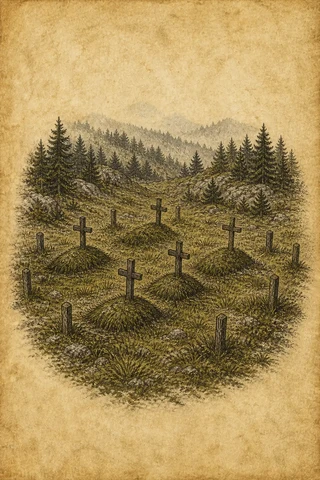
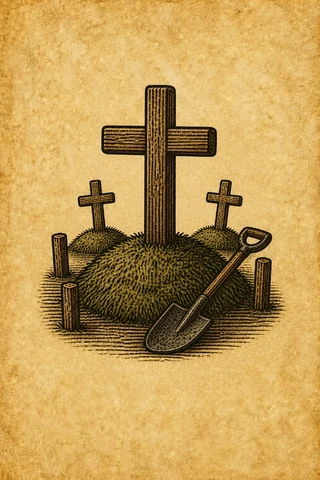
Update settlement HUD and firewood provisioning tests

diff --git a/src/ui/SettlementHud.ts b/src/ui/SettlementHud.ts
@@ -108,7 +108,7 @@ const SETTLEMENT_HUD_HTML = `
               <strong data-stockpile-transit="gold"></strong>
             </div>
             <p class="settlement-hud__resource-detail" data-resource-card-detail="gold">${HUD_RESOURCE_CARD_PRESENTATION.gold.surplusDetail}</p>
-            <p class="settlement-hud__resource-context" data-resource-card-context="gold">Spendable gold across every community lockbox and Town Hall treasury.</p>
+            <p class="settlement-hud__resource-context" data-resource-card-context="gold" hidden></p>
             <p class="settlement-hud__resource-note">Activate to locate physical holdings in the world.</p>
           </section>
         </div>
@@ -1590,9 +1590,11 @@ export class SettlementHud {
     );
     delete this.goldStat.dataset.tooltipTitle;
     delete this.goldStat.dataset.tooltip;
-    this.goldCardContext.textContent = provisioning.armedGuards > 0
+    const hasGuardWageContext = provisioning.armedGuards > 0;
+    this.goldCardContext.hidden = !hasGuardWageContext;
+    this.goldCardContext.textContent = hasGuardWageContext
       ? `Guard wages cost ${provisioning.guardWagePerDay.toFixed(1)} gold per day; current funds cover ${formatProvisionRunway(provisioning.guardWageRunwayDays)}.`
-      : 'Spendable gold across every community lockbox and Town Hall treasury.';
+      : '';
   }
 
   private setSupplyRunway(

diff --git a/src/ui/nobleSetup.css b/src/ui/nobleSetup.css
@@ -1433,21 +1433,7 @@
   vector-effect: non-scaling-stroke;
 }
 
-.noble-hud.is-first-person {
-  pointer-events: none;
-  background: none;
-  box-shadow: none;
-}
-
-.noble-hud.is-first-person::before,
-.noble-hud.is-first-person .noble-hud__portrait-shell,
-.noble-hud.is-first-person .noble-hud__identity,
-.noble-hud.is-first-person .noble-hud__reports {
-  display: none;
-}
-
 .noble-hud.is-first-person .noble-hud__eye {
-  pointer-events: auto;
   border-color: rgba(209, 83, 62, 0.88);
   color: #f0d794;
   background:

diff --git a/src/ui/polishedGameUi.css b/src/ui/polishedGameUi.css
@@ -1016,6 +1016,10 @@ select:focus-visible {
   background: rgba(157, 117, 50, 0.07);
 }
 
+.settlement-hud__resource-context[hidden] {
+  display: none;
+}
+
 .settlement-hud__resource-note {
   padding-top: 6px;
   border-top: 1px solid rgba(220, 191, 127, 0.12);
